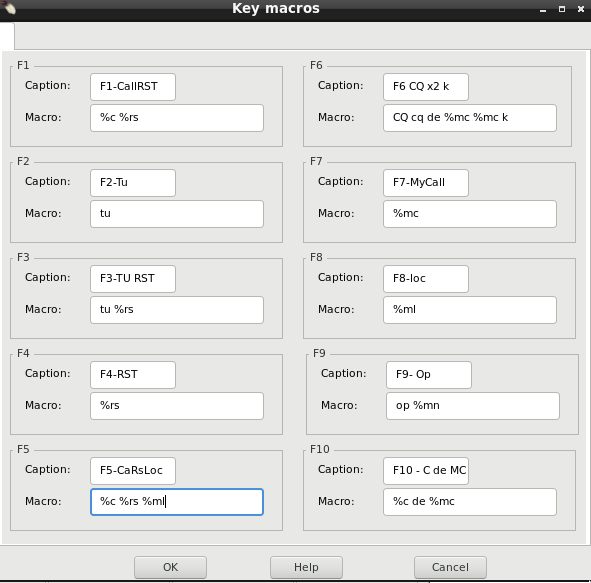
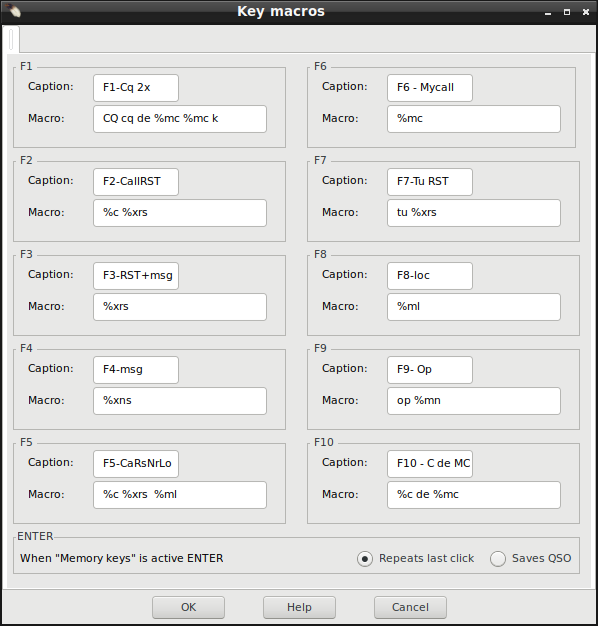
help files update

Changed region(s): [[0.0, 0.0, 1.0, 1.0], [0.5178, 0.1852, 0.6091, 0.2161], [0.4264, 0.7719, 0.4569, 0.8027]]

diff --git a/help/h26.html b/help/h26.html
@@ -34,8 +34,8 @@
     First, set up your CW messages. In the upper menu bar on the logging screen,
     click on the 'File' item.<br><br>
     <img src=img/h96.png><br><br>
-    Choose the 'CW Messages' option. In the resulting window, edit your CW messages which
-    will be played if you press the corresponding F key (in the logging screen).
+    Choose the <strong>CW Messages</strong> option. In the resulting window,<strong>Key macros</strong> edit your CW messages which
+    will be send when you press the corresponding <strong>F</strong>-key.
     You can set up to 10 predefined messages:<br><br>
     <img src=img/h97.png><br><br>
     There are some predefined macros which you can use in your messages:<br><br>
@@ -67,10 +67,10 @@
     </table>
     <p><img src="img/misc8.png" name="8"  width="500" height="85">
    </img>
-   <br/>CW keys from has new buttons PgUp and PgDn that are not configurable. They alter CW speed in same way as keyboard keys PgUp and PgDn that some, specially laptop computers, do not have.</p>
-   <p>When using external keyboard, and CW keys-form with mouse, you always have to first focus NewQso-form to be active and then press PgUp / PgDn keys. Now you can do it from same focused CW-keys form that you launch memories with mouse.</p>
-
-    Another option 'CW type' is a powerful keyboard keyer with 3 operation modes:<br><br>
+   </p><p><strong>Memory keys</strong> form has buttons PgUp and PgDn that are not configurable. They alter CW speed in same way as keyboard keys PgUp and PgDn that some, specially laptop computers, may not even have.
+   <br>When using <strong>Memory keys</strong>-form with mouse, or keyboard, you are able to lauch memories by mouse click or by  <strong>F</strong>-key press from keyboard keys. Same with PgUp and PgDn, both are working, keys and mouse click.
+   <br>You can select what happens when <strong>Memory keys</strong>-form is active and <strong>ENTER</strong> (also called Return) key is pressed, either <strong>repeat last click</strong> (send last memory contents again) or <strong>save QSO</strong>, by selecting that with ENTER section radio buttons in <strong> Key macros</strong> definition form.</p>
+    Another form <strong>CW type</strong> is a powerful keyboard keyer with 3 operation modes:<br></p>
     <img src=img/h98.png><br><br>
     <ul>
         <li><strong>letter mode</strong> - the character of the corresponding keyboard key is
@@ -84,14 +84,13 @@
     </ul>
     These modes are common on professional keyboard keyers.<br><br>
     CWTyping area allows paste (copy in editor/paste to CWType) and drop (select in editor and drag with mouse left button pressed and drop on CWType area).<br><br>
-    <strong>NOTE!</strong> CW sending has limited buffer space depending keyer type and rig model(if Hamlib keying is in use). There is no feedback from buffer
-     overflow so do not paste/drop long texts to CWTyping area. With Icom rigs and HamLib keying buffer overflow will stop cw message sending indicating that operator should check the length of message.
-      This is tested to work with IC7300. Same should happen with Kenwood rigs and HamLib keying, but this is not tested and may not work in same way.
-      <br> Other keyers may indicate buffer overflow in different ways.
-      <br><br> <strong>Same warning  </strong>with manual typing in word mode: If your typing speed is faster than cw sending you may hit send buffer limit at some moment.<br><br>
+    <strong>NOTE!</strong> CW sending has limited buffer space depending keyer type and rig model. Be aware that pasting a very long text to CWType area may lead to CW keyer buffer overflow. When Hamlib keying is in use it will send words under 10 characters as one command, but if text to be sent is longer it will send all letter by letter (1 chr per one command).
+     This is tested to work with IC7300. Same should happen with Kenwoodother rigs and HamLib keying, but this is not tested and may not work in same way.
+      
+      <br><br> <strong>Same warning  </strong>with manual typing in word mode: If your typing speed is faster than cw sending you may hit send buffer limit sooner or later.<br><br>
     The <strong>keying speed</strong> can be changed with PgUp (QRQ) and PgDn (QRS) keys
-    in 2 WPM steps when NewQSO window is active. In the 'CW type' window when cursor is in text typing area same PgUP/PgDN keys work. Speed can also be changed with the small arrow
-    buttons to the right of the speed display. The actual speed is always displayed in the status line of the logging screen and in CWType windows speed selector.<br><br>
+    in 2 WPM steps when <strong>NewQSO</strong>-form is active. In the <strong>CW type</strong>-form when cursor is in text typing area same PgUP/PgDN keys work. Speed can also be changed with the small arrow
+    buttons to the right of the speed display. The actual speed is always displayed in the status line of the <strong>New QSO</strong>-form and in <strong>CWType</strong>-forms speed selector.<br><br>
     The<strong> ESC </strong>key stops running transmit. This may not be supported in all keyers and rigs and is mainly usefull when using word mode or pasted/dropped text.<br><br>
     <strong>NOTE!</strong> Some special characters like Ä (A with dots) etc. May not be supported in CWType direct from keypress. For example Hamlib keying with Icom rig sends A with dots when typing 3 characters ^AA and you have to find out the way suitable for your setup.<br><br>
     <img src=img/h99.png><br><br>
